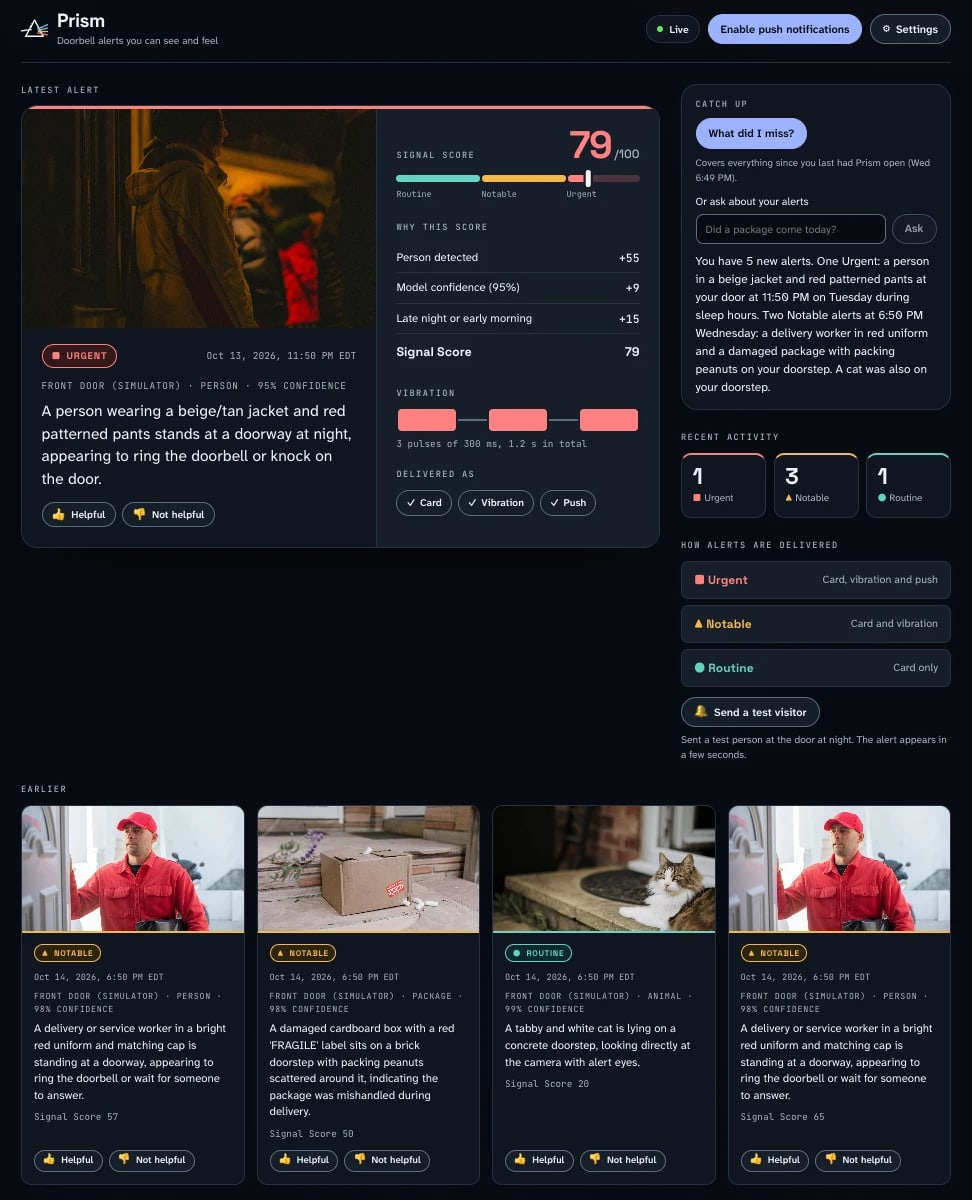
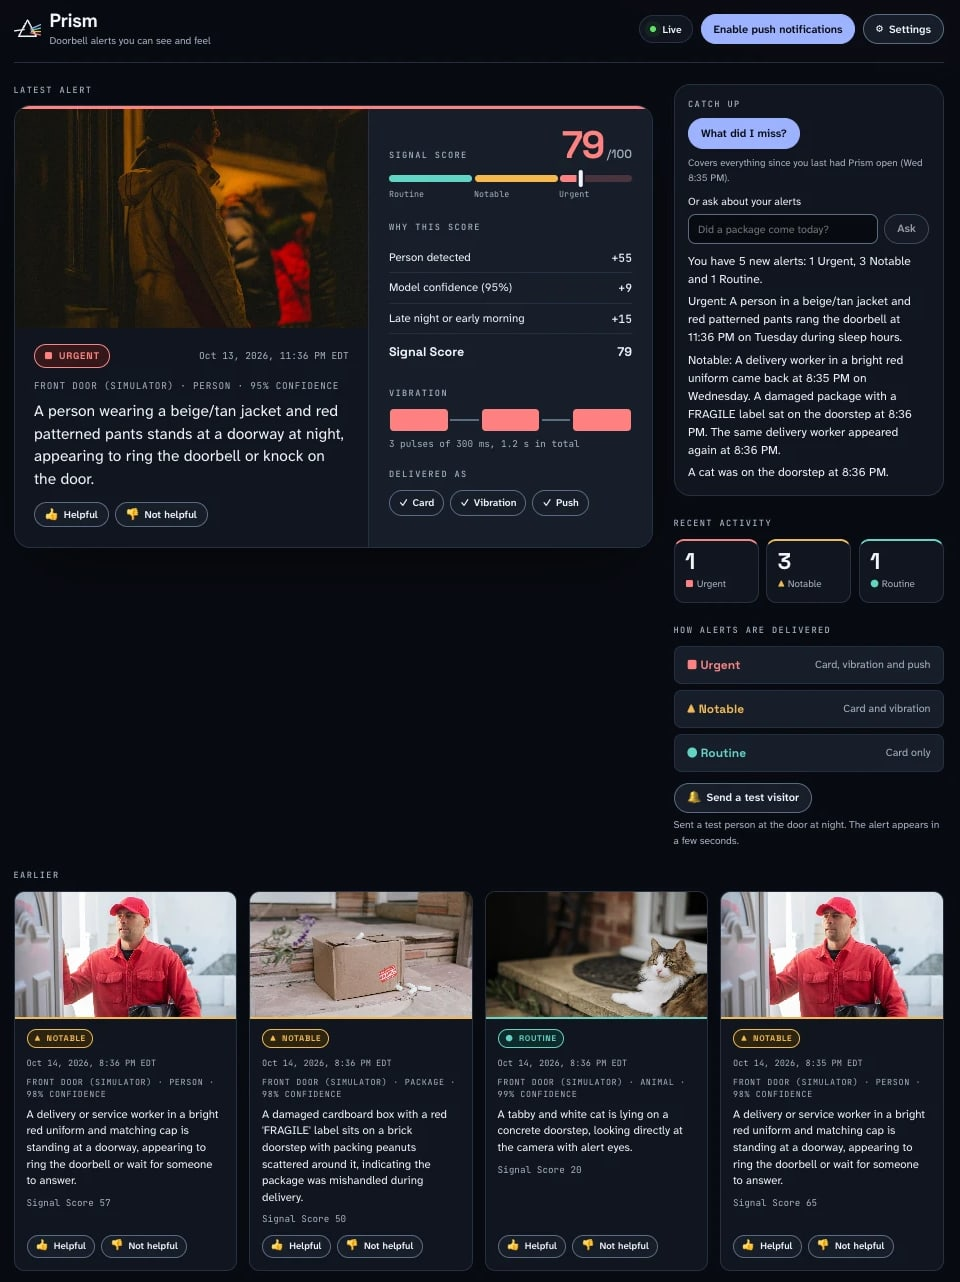
Update the README screenshot to the current catch-up

Changed region(s): [[0.0, 0.0, 1.0, 1.0], [0.5, 0.9558, 0.7188, 1.0], [0.625, 0.185, 0.6562, 0.2775]]

diff --git a/README.md b/README.md
@@ -2,7 +2,7 @@
 
 Context-aware, multi-channel accessible alerts for Ring.
 
-![The Prism companion app. The latest alert is an Urgent one: a person at the door at 11:50 PM, with its Signal Score of 79 broken down beside it (person detected, model confidence, late night) and its vibration pattern of three long pulses. The Catch up panel answers "What did I miss?" in plain sentences, and earlier alerts for a delivery worker, a package and a cat are listed below.](docs/images/companion-app.jpg)
+![The Prism companion app. The latest alert is an Urgent one: a person at the door at 11:36 PM, with its Signal Score of 79 broken down beside it (person detected, model confidence, late night) and its vibration pattern of three long pulses. The Catch up panel answers "What did I miss?": "You have 5 new alerts: 1 Urgent, 3 Notable and 1 Routine", followed by a sentence on each. Earlier alerts for a delivery worker who came twice, a package and a cat are listed below.](docs/images/companion-app.jpg)
 
 ## The problem
 
